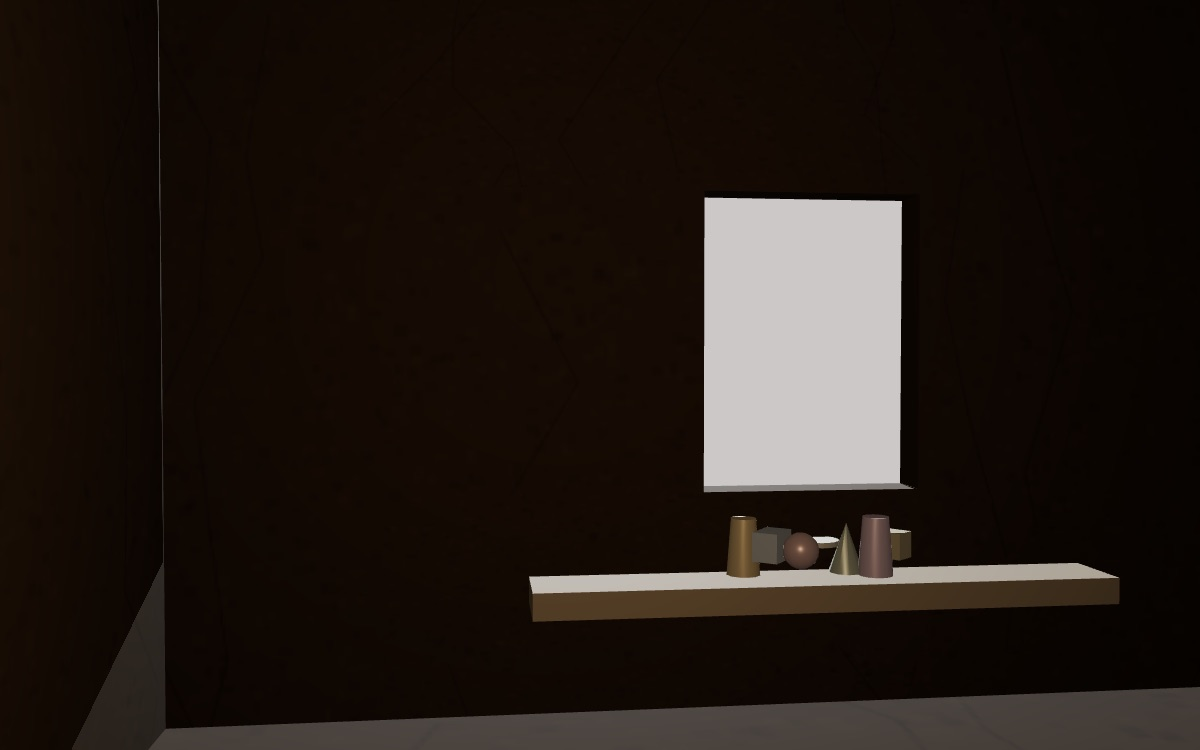
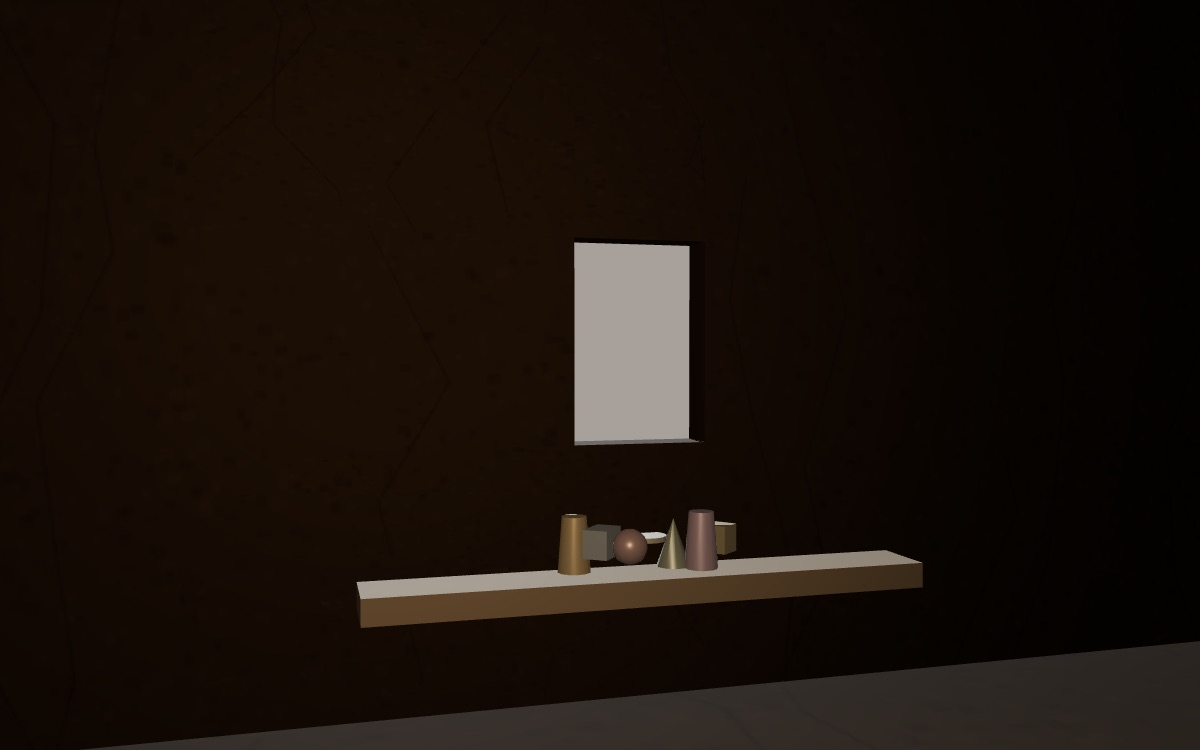
Glossaire : besoins réécrite selon la charte, direction artistique « la cour sans jour »

Changed region(s): [[0.2775, 0.2453, 0.9558, 0.8587], [0.37, 0.8587, 1.0, 1.0], [0.0617, 0.7667, 0.3083, 1.0]]

diff --git a/glossaire/mondes/besoins/essai.html b/glossaire/mondes/besoins/essai.html
@@ -1,48 +1,73 @@
-<!-- L'ESSAI — le corps de /glossaire/besoins.
-     ⚠ AUCUNE CITATION LIÉE, comme pour /glossaire/argent et
-     /glossaire/propriete-privee : la traduction des Manuscrits que ce site
-     sert est celle d'Émile Bottigelli, protégée jusqu'en 2046. Le troisième
-     manuscrit est PARAPHRASÉ et situé, jamais cité entre guillemets. -->
+<!-- L'ESSAI : le corps de /glossaire/besoins.
+     Réécrit en octobre 2026 selon glossaire/mondes/CHARTE.md.
+     AUCUNE CITATION LIÉE : la traduction Bottigelli des Manuscrits est
+     protégée jusqu'en 2046. Le troisième manuscrit est PARAPHRASÉ et situé,
+     jamais cité entre guillemets. Chaque fait vient du fragment servi par la
+     liseuse (troisième manuscrit, « Signification des besoins humains… ») ou
+     des pages sur la propriété privée et le communisme qui le précèdent.
+     Les data-etape et les id des sections ne changent pas : la scène lit les
+     premiers, les liens et la recherche les seconds. -->
 
 <section class="nt-sec" data-etape="paradoxe" id="paradoxe">
-<h2>Une science de la richesse qui enseigne le renoncement</h2>
-<p>Il y a dans le troisième manuscrit de 1844 un paradoxe que Marx formule avec une netteté qui ne laisse aucune échappatoire, et par lequel il faut entrer&nbsp;: l'économie politique, cette science de la richesse, est en même temps la science de la privation et du renoncement. Elle enseigne à produire toujours davantage, et elle enseigne à désirer toujours moins — moins manger, moins boire, moins lire, moins penser, moins aimer&nbsp;; car tout ce que vous épargnez sur vous-même s'ajoute à votre capital, et tout ce que vous êtes, vous ne l'êtes qu'à vos dépens.</p>
-<p>La contradiction n'est qu'apparente, et l'expliquer est tout le fragment. Elle tient à ce que les besoins dont l'économie politique s'occupe ne sont pas ceux de tout le monde. Il y a ceux dont il faut multiplier le raffinement, parce qu'ils font vendre&nbsp;; et il y a ceux dont il faut abaisser le seuil, parce qu'ils coûtent. La même science, à quelques pages d'intervalle, célèbre l'invention des jouissances nouvelles et loue l'ouvrier qui se contente de moins.</p>
-<p>Marx en tire l'observation qui commande la suite&nbsp;: le besoin n'est pas une donnée naturelle qu'il suffirait de satisfaire, c'est un objet de production. On produit des marchandises, et l'on produit aussi les besoins auxquels elles répondent. Dès lors la question n'est plus de savoir si les besoins sont satisfaits, mais qui les fait, et à quelle fin.</p>
+<h2>Comment une science de la richesse peut-elle prêcher le renoncement&nbsp;?</h2>
+<p class="nt-lead">Parce que l'économie politique ne parle pas des mêmes besoins selon qu'elle s'adresse à ceux qui achètent ou à ceux qui travaillent. Marx part de ce paradoxe pour établir que les besoins sont produits, comme les choses qui les satisfont.</p>
+<p>Le paradoxe est formulé dans le troisième des <i>Manuscrits de 1844</i>. L'économie politique, qui se donne pour la science de la richesse, est en même temps, écrit Marx, la science du renoncement, de la privation et de l'épargne. Elle admire l'industrie, et son idéal moral est l'ouvrier qui porte une partie de son salaire à la caisse d'épargne. Marx en résume l'enseignement sous la forme d'une leçon&nbsp;: moins on mange, boit, achète de livres, va au théâtre ou au bal, moins on pense et l'on aime, plus on épargne et plus grossit le capital. Moins on est, plus on possède.</p>
+<p>L'argent prend alors la place de tout ce dont on s'est privé. Ce que l'économiste retire à l'homme en vie et en humanité, il le lui rend en argent, et l'argent peut tout ce que l'homme ne peut pas&nbsp;: il mange, voyage, va au théâtre, connaît l'art et la politique. D'où une remarque que Marx place au début du fragment. Le besoin d'argent est le seul besoin que l'économie politique produise vraiment, et toutes les autres passions, dit-il plus loin, doivent sombrer dans la soif de richesse.</p>
+<p>Marx rapporte aussi la querelle qui partage les économistes de son temps. Lauderdale et Malthus recommandent le luxe et blâment l'épargne&nbsp;; Say et Ricardo recommandent l'épargne et blâment le luxe. Il fait remarquer que chaque camp avoue le but de l'autre&nbsp;: les premiers veulent le luxe pour faire travailler, les seconds l'épargne pour produire la richesse. Le luxe et le dénuement, conclut-il, s'équivalent dans ce système. Pour comprendre comment, il faut cesser de tenir le besoin pour une donnée de la nature.</p>
 </section>
 
 <section class="nt-sec" data-etape="ou" id="ou">
-<h2>Où Marx le pose&nbsp;: entre la propriété privée et l'argent</h2>
-<p>Le fragment sur les besoins occupe, dans le troisième cahier, une place qui n'est pas indifférente. Il vient après les pages sur la <a href="/glossaire/propriete-privee">propriété privée</a> et le communisme, et avant celles sur l'<a href="/glossaire/argent">argent</a> qui closent le manuscrit. On peut lire cet ordre comme une descente vers le concret&nbsp;: le rapport général d'abord, puis ce qu'il fait aux désirs, puis l'objet où il se condense.</p>
-<p>Cette place explique le ton. Marx n'y expose pas une théorie de la consommation&nbsp;; il décrit un mécanisme social où chacun devient, pour l'autre, un fabricant de dépendances. Il faut lire ce passage comme le pendant du <a href="/glossaire/travail-aliene">travail aliéné</a>&nbsp;: là, l'ouvrier était dépossédé de son produit et de son activité&nbsp;; ici, il est dépossédé de ses besoins mêmes, qui lui sont faits du dehors.</p>
-<p>On aperçoit alors la cohérence du cahier. L'aliénation n'est pas un épisode qui aurait lieu dans l'atelier et s'arrêterait à la porte&nbsp;: elle se poursuit dans la manière dont un homme désire, et jusque dans ce qu'il tient pour un besoin. Marx passe donc de la production des choses à la production des hommes, et c'est le même mouvement.</p>
+<h2>Où Marx traite-t-il des besoins, et dans quel ordre&nbsp;?</h2>
+<p class="nt-lead">Dans un fragment du troisième manuscrit qui suit les pages sur la propriété privée et le communisme et précède celles sur l'argent. Il en est la suite directe&nbsp;: Marx vient de décrire ce que serait la richesse des besoins dans une société libérée, et il regarde ce qu'en fait la propriété privée.</p>
+<p>Les <i>Manuscrits de 1844</i> sont des cahiers rédigés à Paris, restés inédits jusqu'en 1932. Le fragment sur les besoins y porte, dans l'édition que sert ce site, un long intitulé entre crochets&nbsp;: la signification des besoins humains sous le régime de la propriété privée et sous le socialisme. Il s'ouvre sur un point numéroté, le septième, qui prolonge l'énumération des pages précédentes. Marx y rappelle ce qu'il vient d'établir. Sous le socialisme, un nouveau mode de production et un nouvel objet seraient une manifestation nouvelle des forces humaines, un enrichissement de l'homme. Sous la propriété privée, ajoute-t-il, ils prennent la signification inverse.</p>
+<p>Cette place éclaire le propos. Le fragment applique aux désirs ce que le <a href="/glossaire/travail-aliene">travail aliéné</a> avait montré dans le premier manuscrit à propos du produit et de l'activité&nbsp;: une chose faite par l'homme lui revient comme une puissance étrangère. Ici, ce sont ses besoins qui lui sont faits du dehors. Le fragment prépare aussi la page sur l'<a href="/glossaire/argent">argent</a> qui suit, puisque l'argent y apparaît déjà comme le besoin qui absorbe tous les autres. L'ordre va de la <a href="/glossaire/propriete-privee">propriété privée</a>, rapport général, à ce qu'elle fait des désirs, puis à la chose où ce rapport se condense.</p>
 </section>
 
 <section class="nt-sec" data-etape="distinction" id="distinction">
-<h2>La distinction qui fait le concept&nbsp;: l'extension et la richesse</h2>
-<p>Le concept tient sur une distinction que le langage courant confond constamment, et qu'il faut poser avec soin&nbsp;: l'<b>extension</b> des besoins n'est pas la <b>richesse</b> des besoins. Un homme peut avoir mille désirs et n'être riche d'aucun, si chacun de ces désirs lui a été fabriqué pour le rendre dépendant&nbsp;; et un homme peut avoir peu de besoins et être riche, si chacun engage une capacité réelle et le met en rapport avec quelque chose du monde.</p>
-<p>Marx décrit le mécanisme par lequel l'extension se substitue à la richesse, et sa description est d'une précision presque commerciale. Chaque homme, dans ce système, spécule sur la création d'un besoin nouveau chez l'autre, afin de le contraindre à un sacrifice nouveau et de le placer dans une dépendance nouvelle. L'industriel se fait le complaisant des appétits de son voisin, il se place entre lui et son besoin, il excite en lui des envies maladives, et de chaque faiblesse il fait une source de revenu. L'extension des besoins devient ainsi un raffinement de la servitude, et non son contraire.</p>
-<p>Le point décisif est que cette production de besoins a un revers, et que les deux vont ensemble. Pendant que l'on invente des jouissances pour ceux qui peuvent payer, on abaisse chez les autres le seuil de ce qui compte comme besoin. Marx énumère ce qui cesse alors d'en être un&nbsp;: la lumière, l'air, la propreté la plus élémentaire&nbsp;; l'homme retourne à la caverne, mais à une caverne qui ne lui appartient plus et dont il peut être chassé s'il ne paie pas. Ce n'est pas une image&nbsp;: c'est la description de logements qu'il avait sous les yeux.</p>
+<h2>Que fait la propriété privée des besoins&nbsp;?</h2>
+<p class="nt-lead">Elle en fait un moyen de prise sur les autres. Chacun cherche à créer chez autrui un besoin nouveau, pour le contraindre à un sacrifice et le placer dans une dépendance nouvelle.</p>
+<p>Marx décrit le mécanisme du côté de celui qui vend. Chacun s'applique à éveiller chez l'autre un besoin qu'il n'avait pas, afin de l'amener à une jouissance nouvelle et, par elle, à une ruine économique nouvelle. Tout produit devient un appât destiné à attirer à soi l'être de l'autre, c'est-à-dire son argent. Tout besoin, réel ou possible, devient une faiblesse par laquelle on le prendra, comme la mouche se prend à la glu. Marx compare le producteur à un eunuque qui flatte son despote&nbsp;: il se fait l'entremetteur entre un homme et son besoin, excite en lui des appétits maladifs et guette chacune de ses faiblesses pour se faire payer ensuite ses bons offices.</p>
+<p>Le résultat est double. La masse des objets augmente, et avec elle l'empire des choses étrangères auxquelles l'homme est soumis. Celui-ci devient plus pauvre en tant qu'homme et a d'autant plus besoin d'argent pour se rendre maître de ce qui lui fait face. Les besoins se sont multipliés sans s'être enrichis. Marx le dit d'une formule&nbsp;: la propriété privée ne sait pas transformer le besoin grossier en besoin humain. Elle le raffine sans le cultiver, et son idéal reste le caprice et l'imaginaire.</p>
+<p>Il faut donc distinguer l'extension des besoins et leur richesse. Un homme peut avoir mille désirs et n'être riche d'aucun, si chacun lui a été fabriqué pour le tenir. La gravure ci-dessous en donne une image, prise dans le Londres que Marx a en tête&nbsp;: une galerie de boutiques de luxe, et à sa porte un enfant qui balaie la chaussée en tendant son chapeau.</p>
+<div data-planche="arcade"></div>
 </section>
 
 <section class="nt-sec" data-etape="mecanisme" id="mecanisme">
-<h2>Le mécanisme&nbsp;: pourquoi les deux mouvements sont un seul</h2>
-<p>On pourrait croire à deux phénomènes distincts — le luxe d'un côté, la misère de l'autre — et se contenter d'en déplorer le contraste. Marx montre qu'il s'agit d'un même mouvement, et le raisonnement mérite qu'on le suive.</p>
-<p>Ce qui est produit doit être vendu&nbsp;; pour être vendu, il faut qu'un besoin lui corresponde&nbsp;; et comme les besoins existants sont bornés, il faut en créer. Voilà le premier versant. Mais ce qui est produit doit aussi être produit au moindre coût&nbsp;; or le coût principal est la valeur de la <a href="/glossaire/force-de-travail">force de travail</a>, laquelle est faite des subsistances nécessaires à celui qui la vend&nbsp;; abaisser ces subsistances, c'est abaisser ce coût. Voilà le second. Le même impératif — la valorisation — commande donc d'étendre les besoins d'un côté et de les comprimer de l'autre, et il n'y a aucune contradiction à ce que la même science recommande les deux.</p>
-<p>Marx pousse l'observation jusqu'à un point qui prête à sourire et qui ne devrait pas&nbsp;: dans ce système, l'ouvrier idéal serait celui qui n'a besoin de rien, et le consommateur idéal celui qui a besoin de tout&nbsp;; et comme c'est souvent le même homme, il lui faut être deux. C'est en ce sens que l'économie politique est à la fois la science de la richesse et celle du renoncement — non par inconséquence, mais parce qu'elle décrit fidèlement un rapport qui exige les deux.</p>
+<h2>Pourquoi le raffinement des uns va-t-il avec le dénuement des autres&nbsp;?</h2>
+<p class="nt-lead">Parce qu'un seul impératif, le gain, commande les deux. L'industrie spécule sur la grossièreté des besoins autant que sur leur raffinement, et l'économie fait de la vie la plus pauvre la norme de l'ouvrier.</p>
+<p>Le second versant est décrit sans ménagement. Même le besoin de grand air, écrit Marx, cesse d'être un besoin pour l'ouvrier. Il retourne à la caverne, mais à une caverne empestée, qu'il n'habite qu'à titre précaire et dont on peut l'expulser chaque jour s'il ne paie pas. Marx rappelle que, chez Eschyle, Prométhée compte la maison pleine de lumière parmi les dons qui ont fait de l'homme un homme&nbsp;: elle cesse d'exister pour l'ouvrier. La lumière, l'air et la propreté la plus élémentaire cessent d'être des besoins. L'Irlandais, ajoute-t-il, ne connaît plus que le besoin de manger, et seulement des pommes de terre de la pire espèce, et chaque ville industrielle d'Angleterre et de France a déjà sa petite Irlande.</p>
+<p>Comment l'augmentation des besoins engendre-t-elle cette absence de besoins&nbsp;? Marx pose lui-même la question et répond par la conduite de l'économiste. Celui-ci réduit le besoin de l'ouvrier à l'entretien le plus misérable de la vie physique. Puis il fait de cette existence la plus pauvre possible une norme, et une norme universelle, puisqu'elle vaut pour la masse des hommes. Dès lors tout ce qui dépasse ce minimum lui paraît un luxe, et tout luxe de l'ouvrier une faute. Le même homme qui invente des jouissances pour la clientèle riche calcule au plus juste celles de ses ouvriers&nbsp;: il n'y a là aucune contradiction, puisque dans les deux cas il calcule.</p>
+<div class="nt-ex">
+<p class="nt-ex-t">Un exemple</p>
+<p>Marx compare deux sortes de logements à Londres&nbsp;: les palais et les sous-sols. Le palais répond au besoin raffiné du riche&nbsp;; le sous-sol au besoin grossier de celui qui ne peut se loger ailleurs. Or, fait-il remarquer, les caves de Londres rapportent davantage à ceux qui les louent que les palais. Pour le propriétaire, elles sont une richesse plus grande, et donc, dans la langue de l'économiste, une plus grande richesse sociale.</p>
+<p>L'exemple montre que le dénuement rapporte&nbsp;: il appartient au mouvement de l'économie au même titre que le luxe. Marx en tire une règle&nbsp;: ce que la production signifie pour les riches apparaît ouvertement dans ce qu'elle signifie pour les pauvres. En haut, elle se déguise en raffinement&nbsp;; en bas, elle se montre telle qu'elle est.</p>
+</div>
+<p>L'industrie spécule ainsi sur la grossièreté des besoins, mais sur une grossièreté provoquée artificiellement, dont la seule joie est de s'étourdir. Marx en donne pour emblème les débits de boisson anglais, qu'il appelle des illustrations symboliques de la propriété privée&nbsp;: le luxe de leur décor montre ce qu'est, pour l'homme, le luxe de la richesse industrielle. Cruikshank avait dessiné ce piège quinze ans plus tôt, et il l'avait pris au pied de la lettre.</p>
+<div data-planche="gin"></div>
 </section>
 
 <section class="nt-sec" data-etape="ouvre" id="ouvre">
-<h2>Ce que le concept ouvre&nbsp;: le besoin comme capacité</h2>
-<p>La partie constructive du fragment est brève, et elle donne un critère que nous tenons pour l'un des plus utiles de tout le cahier. Un besoin non aliéné est un besoin qui suppose une capacité formée et qui met en rapport avec quelque chose de déterminé&nbsp;: le besoin de musique suppose une oreille, celui de la peinture un œil exercé, celui d'autrui la capacité d'éveiller quelque chose chez lui. Le besoin devient alors, non un manque à combler, mais l'autre nom d'une puissance d'être en relation.</p>
-<p>De là une manière de mesurer la richesse d'une société qui ne se confond pas avec le volume de ce qu'elle produit&nbsp;: on la mesure à l'étendue des rapports que ses membres peuvent réellement entretenir. L'homme riche, dans le vocabulaire de 1844, est celui qui a besoin de la totalité des manifestations humaines de la vie — non celui qui possède le plus, mais celui dont la sensibilité est la plus développée. On retrouve ici le mouvement qui court dans tout le cahier, et qui va de l'avoir à l'être.</p>
-<p>Nous ajoutons que ce critère n'est pas un vœu&nbsp;: il permet de juger, et il juge. Une société qui multiplie les objets sans former personne à rien s'appauvrit au moment même où ses chiffres s'élèvent&nbsp;; et l'appauvrissement est réel, mesurable en capacités perdues, même s'il n'apparaît sur aucun compte.</p>
+<h2>Qu'est-ce qu'un besoin qui n'asservit pas&nbsp;?</h2>
+<p class="nt-lead">C'est un besoin qui suppose des sens et des capacités formés, et qui met en rapport avec les autres. L'homme riche, dans le vocabulaire de 1844, est celui qui a besoin d'une totalité de manifestations de la vie humaine.</p>
+<p>La réponse positive se trouve surtout dans les pages qui précèdent le fragment, et que son premier paragraphe rappelle. Marx y explique que les sens humains ne sont pas donnés une fois pour toutes. Une oreille devient musicienne grâce à la musique&nbsp;; pour une oreille qui ne l'est pas, la plus belle musique n'a aucun sens. Un œil apprend à percevoir la beauté d'une forme. La formation des cinq sens, écrit-il, est le travail de toute l'histoire passée. Un sens prisonnier du besoin le plus grossier reste borné&nbsp;: pour l'homme qui meurt de faim, l'aliment n'a pas de forme humaine, il est seulement de quoi manger.</p>
+<p>De là le renversement que Marx propose. À la place de la richesse et de la misère dont parle l'économie politique, il met l'homme riche et le besoin humain riche. L'homme riche est celui pour qui la réalisation de soi est devenue une nécessité intérieure, un besoin. Et le plus grand de ces besoins a pour objet l'autre homme. La richesse d'une vie se mesure alors à l'étendue des rapports qu'elle entretient réellement avec le monde et avec autrui.</p>
+<p>Le fragment lui-même en donne un exemple pris sur le vif. Quand des ouvriers communistes se réunissent, leur but est d'abord la doctrine et la propagande. Mais ils acquièrent en même temps un besoin nouveau, le besoin de la société, et ce qui semblait un moyen devient le but. Chez les ouvriers socialistes français, observe Marx, fumer, boire et manger ne sont plus des prétextes à se réunir&nbsp;: la réunion et la conversation leur suffisent. Ce besoin nouveau ne rend personne dépendant d'un vendeur, et il n'enrichit que ceux qui l'éprouvent.</p>
 </section>
 
 <section class="nt-sec" data-etape="lectures" id="lectures">
-<h2>Lectures, et contresens</h2>
-<p>Le premier contresens fait de ces pages une condamnation des besoins nouveaux, et de Marx un partisan de la frugalité. C'est le contraire&nbsp;: le fragment reproche précisément à l'économie politique de prêcher le renoncement, et ce qu'il oppose au besoin fabriqué n'est pas l'ascèse mais un besoin plus riche. La sobriété comme idéal appartient ici à l'adversaire, non à l'auteur.</p>
-<p>Le deuxième contresens consiste à lire une distinction entre besoins «&nbsp;vrais&nbsp;» et besoins «&nbsp;faux&nbsp;», comme si une liste pouvait les départager. Marx ne fournit aucune liste et ne pourrait pas en fournir, puisque les besoins sont pour lui historiques&nbsp;: ce qui distingue les uns des autres n'est pas leur objet mais leur <i>rapport</i> — un besoin qui suppose une capacité formée n'est pas de même nature qu'un besoin fabriqué pour créer une dépendance, quand bien même ils porteraient sur la même chose.</p>
-<p>Le troisième contresens est d'actualiser trop vite. Il est tentant de lire ici une analyse de la publicité, et la tentation n'est pas absurde&nbsp;; mais Marx n'a pas sous les yeux une industrie du désir constituée, il a des logements insalubres, des adultérations d'aliments et le crédit naissant. Nous croyons plus juste de dire que le fragment donne un schéma — la production sociale des besoins comme moyen de dépendance — dont la publicité est un cas tardif, plutôt que d'y voir une prédiction.</p>
-<p>Reste le statut du texte, qu'il faut rappeler comme sur les autres notions de 1844&nbsp;: ces cahiers sont un chantier, restés inédits jusqu'en 1932. Le fragment sur les besoins est parmi les plus achevés dans son argumentation, et parmi les moins repris dans l'œuvre ultérieure&nbsp;; le <i>Capital</i> traitera de la valeur de la force de travail et de son élément historique et moral, mais il ne reviendra pas sur la fabrication des besoins comme telle.</p>
+<h2>Comment lire ce fragment, et quels contresens éviter&nbsp;?</h2>
+<p class="nt-lead">Ces pages sont un chantier de jeunesse, et leur critique des besoins fabriqués se lit facilement de travers. Trois contresens reviennent souvent, et le texte permet de les corriger.</p>
+<p>Le fragment appartient à des cahiers que Marx n'a pas publiés, dans un vocabulaire qui doit encore beaucoup à Feuerbach&nbsp;: l'essence humaine, les forces humaines, l'homme riche. Il ne faut donc pas lui demander une théorie de la consommation. Il faut aussi éviter de le séparer du reste de l'œuvre. Dans <i>Le Capital</i>, plus de vingt ans plus tard, Marx écrira que la valeur de la <a href="/glossaire/force-de-travail">force de travail</a> comprend un élément moral et historique, qui varie selon les pays et les époques. L'idée que les besoins de l'ouvrier sont façonnés par une société, et ne se réduisent pas à une ration physiologique, y est reprise, dans une autre langue.</p>
+<div class="nt-cs">
+<p><span class="nt-cs-k">On lit souvent</span> Marx condamnerait la multiplication des besoins et prônerait une vie sobre, réduite au nécessaire.</p>
+<p><span class="nt-cs-k">Ce que dit le texte</span> C'est l'économie politique qui prêche l'épargne, le renoncement et l'ascèse, et Marx le lui reproche. Ce qu'il oppose au besoin fabriqué est un besoin plus riche, qui suppose des sens formés.</p>
+</div>
+<div class="nt-cs">
+<p><span class="nt-cs-k">On lit souvent</span> Il y aurait de vrais et de faux besoins, et l'on pourrait en dresser la liste.</p>
+<p><span class="nt-cs-k">Ce que dit le texte</span> Marx ne donne aucune liste, et il ne le pourrait pas, puisque les sens sont le produit de l'histoire. Deux besoins qui portent sur le même objet diffèrent par leur rapport&nbsp;: l'un suppose une capacité formée, l'autre a été éveillé pour créer une dépendance.</p>
+</div>
+<div class="nt-cs">
+<p><span class="nt-cs-k">On lit souvent</span> Ces pages annonceraient la critique de la publicité et de la société de consommation.</p>
+<p><span class="nt-cs-k">Ce que dit le texte</span> Marx a sous les yeux les caves de Londres, les débits de gin et la misère irlandaise. Le fragment donne un schéma, la production sociale des besoins comme moyen de dépendance, que l'on peut appliquer à d'autres époques. Il ne prédit rien.</p>
+</div>
 </section>

diff --git a/glossaire/mondes/besoins/monde.js b/glossaire/mondes/besoins/monde.js
@@ -153,11 +153,10 @@ window.LM_MONDE = function (canvas) {
     cz = lerp(cz, 2.35, st.recul);
     var camA = V3(lerp(0.55, 0.42, q), lerp(1.30, 1.16, q), WZ);
     camera.position.set(cx + 0.012 * Math.sin(T * 0.25), cy + 0.009 * Math.sin(T * 0.33), cz);
-    /* la colonne de texte occupe la gauche : la fenêtre doit vivre à droite */
-    var dist = camera.position.distanceTo(camA);
-    var fwd = new THREE.Vector3().subVectors(camA, camera.position).normalize();
-    var right = new THREE.Vector3().crossVectors(fwd, V3(0, 1, 0)).normalize();
-    aim.copy(camA).addScaledVector(right, -Math.min(0.24 * dist, 0.62));
+    /* la scène est une figure en bas de page (octobre 2026) : la fenêtre
+       est visée au centre du cadre. La visée décalée de l'architecture
+       « plein », qui laissait la gauche à la colonne de texte, est retirée. */
+    aim.copy(camA);
     camera.lookAt(aim);
     render();
   }
